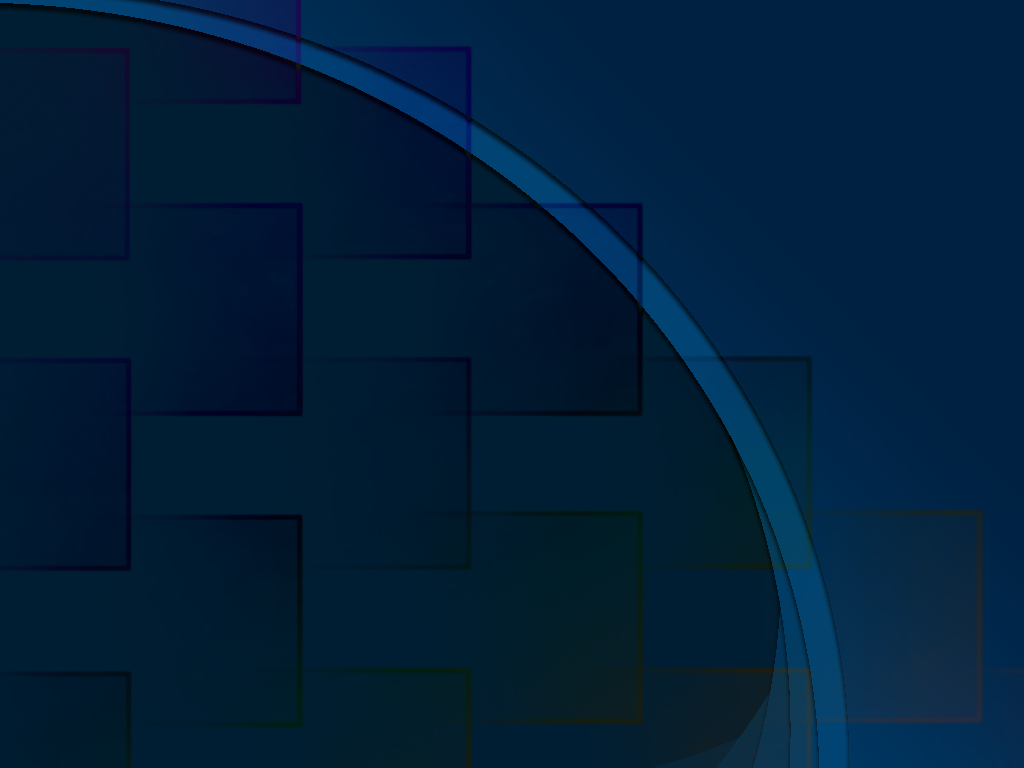
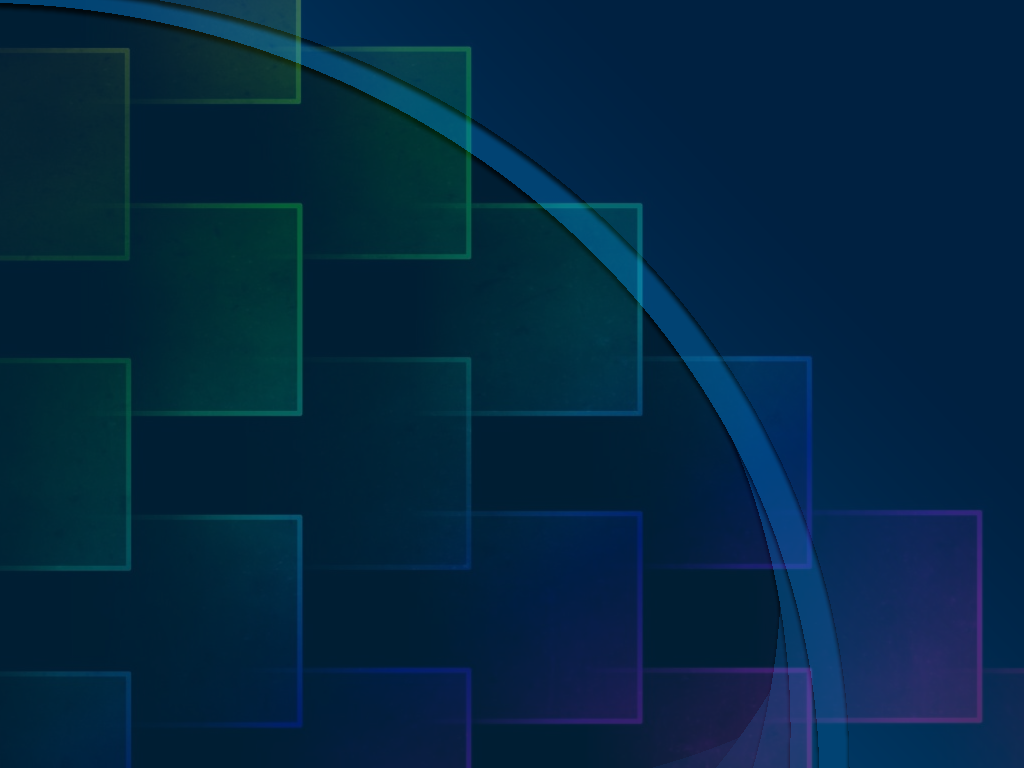
Changement de couleur du theme carré + changement du fond de option

Changed region(s): [[0.0, 0.0, 0.9688, 1.0], [0.0312, 0.875, 0.1562, 1.0]]

diff --git a/Projet_QUIZ/src/Option.java b/Projet_QUIZ/src/Option.java
@@ -124,6 +124,8 @@ public class Option extends JPanel implements MouseListener, MouseMotionListener
 				Theme.setGerer_hover(7);
 				Theme.setBarre(1);
 				
+				Theme.setOption(4);
+				
 				t2.setSelected(false);
 				t3.setSelected(false);
 				repaint();
@@ -160,6 +162,7 @@ public class Option extends JPanel implements MouseListener, MouseMotionListener
 				Theme.setGerer(7);
 				Theme.setGerer_hover(7);
 				Theme.setBarre(1);
+				Theme.setOption(6);
 				t1.setSelected(false);
 				t3.setSelected(false);
 				repaint();
@@ -196,6 +199,7 @@ public class Option extends JPanel implements MouseListener, MouseMotionListener
 				Theme.setGerer_hover(17);
 				
 				Theme.setBarre(2);
+				Theme.setOption(7);
 				
 				t1.setSelected(false);
 				t2.setSelected(false);
@@ -231,6 +235,7 @@ public class Option extends JPanel implements MouseListener, MouseMotionListener
 			Theme.setGerer(7);
 			Theme.setGerer_hover(7);
 			Theme.setBarre(1);
+			Theme.setOption(4);
 			repaint();
 		}
 		if (arg0.getX() >= 60 && arg0.getX() <= 260 && arg0.getY() >= 343 && arg0.getY() <= 543) { //carr�
@@ -254,6 +259,7 @@ public class Option extends JPanel implements MouseListener, MouseMotionListener
 			Theme.setGerer(7);
 			Theme.setGerer_hover(7);
 			Theme.setBarre(1);
+			Theme.setOption(6);
 			t1.setSelected(false);
 			t3.setSelected(false);
 			repaint();
@@ -282,7 +288,7 @@ public class Option extends JPanel implements MouseListener, MouseMotionListener
 			Theme.setGerer_hover(17);
 			
 			Theme.setBarre(2);
-			
+			Theme.setOption(7);
 			
 			
 			repaint();
@@ -315,8 +321,15 @@ public class Option extends JPanel implements MouseListener, MouseMotionListener
 		// le fond et les elements sont en fonction de la taille de la fenetre, donc pas de soucis de redimensionnement de la fenetre
 		
 		g.drawImage(Images.img_fond[Theme.getTheme()], 0, 0, this.getWidth(), this.getHeight(), null);							// dessine le fond d'ecran
-		g.drawImage(Images.img_element[1], 140, 113, 8, 655, null);
-		g.drawImage(Images.img_fond[4], 0, 0, this.getWidth(), this.getHeight(), null);	
+		
+		if(Theme.getBarre()==1){
+			g.drawImage(Images.img_element[1], 140, 113, 8, 655, null);
+		}
+		
+		
+		g.drawImage(Images.img_fond[Theme.getOption()], 0, 0, this.getWidth(), this.getHeight(), null);	//fond du option
+		
+		
 		g.drawImage(Images.img_element[10], 60, 140, 200, 200, null);
 		g.drawImage(Images.img_element[11], 60, 343, 200, 200, null);
 		g.drawImage(Images.img_element[17], 60, 546, 200, 200, null);

diff --git a/Projet_QUIZ/src/Theme.java b/Projet_QUIZ/src/Theme.java
@@ -16,6 +16,7 @@ public class Theme {
 	public static int btnCredits_hover = 2;
 	public static int btnQuitter_hover = 3;
 	
+	public static int fondOption = 4;
 	public static int barre = 1;
 	
 	
@@ -37,6 +38,7 @@ public class Theme {
 	public static int getCredits_hover()		{return btnCredits_hover;}	
 	public static int getQuitter_hover()		{return btnQuitter_hover;}
 
+	public static int getOption()				{return fondOption;}
 	public static int getBarre()				{return barre;}
 	//setteurs
 	public static void setTheme(int i){theme = i;}
@@ -54,5 +56,6 @@ public class Theme {
 	public static void setCredits_hover(int i)			{btnCredits_hover = i;}
 	public static void setQuitter_hover(int i)			{btnQuitter_hover = i;}
 
+	public static void setOption(int i)					{fondOption = i;}
 	public static void setBarre(int i)					{barre = i;}
 }

diff --git a/Projet_QUIZ/src/Images.java b/Projet_QUIZ/src/Images.java
@@ -43,6 +43,8 @@ public class Images {
 			img_fond[4] = ImageIO.read(new File("images/option_panel.png"));	// Lecture du fichier .png
 			
 			img_fond[5] = ImageIO.read(new File("images/accueil_fond_use.png"));
+			img_fond[6] = ImageIO.read(new File("images/option_panel_carre.png"));
+			img_fond[7] = ImageIO.read(new File("images/option_panel_use.png"));
 			
 		} catch (IOException e) {
 			e.printStackTrace();
